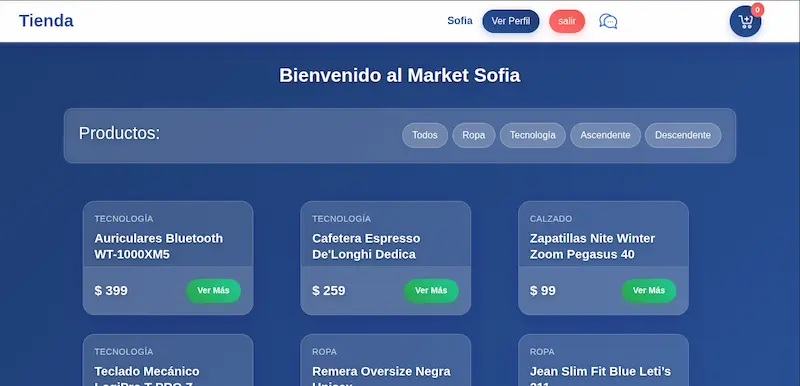
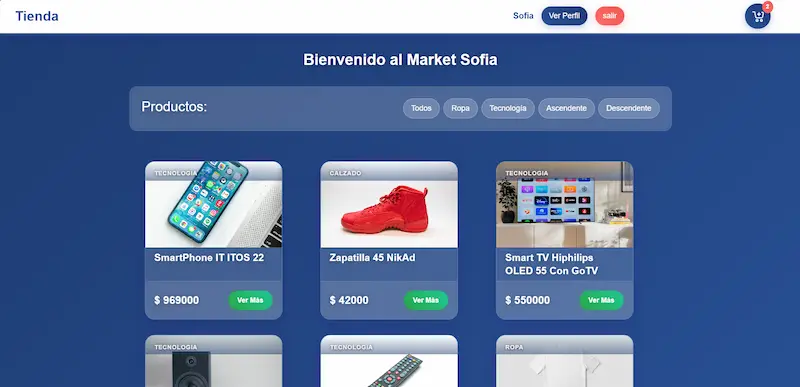
Cambios en diseño e imágenes

diff --git a/sass/style.scss b/sass/style.scss
@@ -5,6 +5,8 @@ $primary-color: #143a5e;
 $secondary-color: #2a5a8a;
 $background-color: #E3EAEE;
 $background-light: #f8fbfc;
+$bg1: rgba(20, 58, 94, 0.6);
+$bg2: rgba(42, 90, 138, 0.7);
 $text-color: #393939;
 $white: #ffffff;
 $success-color: #28a745;
@@ -257,7 +259,7 @@ body{
 }
 
 .tech-tag {
-    @include gradient-bg($primary-color, $secondary-color);
+    @include gradient-bg($bg1, $bg2);
     color: $white;
     padding: 5px 12px;
     border-radius: 20px;
@@ -642,7 +644,7 @@ body{
             }
             
             &__tag {
-                @include gradient-bg($primary-color, $secondary-color);
+                @include gradient-bg($bg1, $bg2);
                 color: $white;
                 padding: 6px 12px;
                 border-radius: 20px;

diff --git a/css/style.css b/css/style.css
@@ -173,7 +173,7 @@ body {
 }
 
 .tech-tag {
-  background: linear-gradient(135deg, #143a5e, #2a5a8a);
+  background: linear-gradient(135deg, rgba(20, 58, 94, 0.6), rgba(42, 90, 138, 0.7));
   color: #ffffff;
   padding: 5px 12px;
   border-radius: 20px;
@@ -519,7 +519,7 @@ body {
   gap: 8px;
 }
 .project-tech__tag {
-  background: linear-gradient(135deg, #143a5e, #2a5a8a);
+  background: linear-gradient(135deg, rgba(20, 58, 94, 0.6), rgba(42, 90, 138, 0.7));
   color: #ffffff;
   padding: 6px 12px;
   border-radius: 20px;
